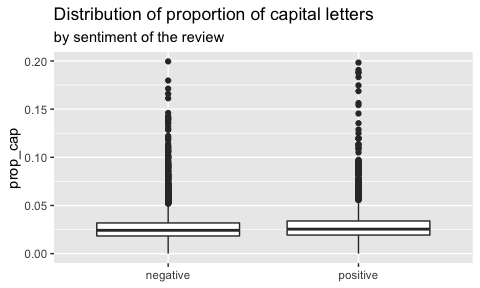
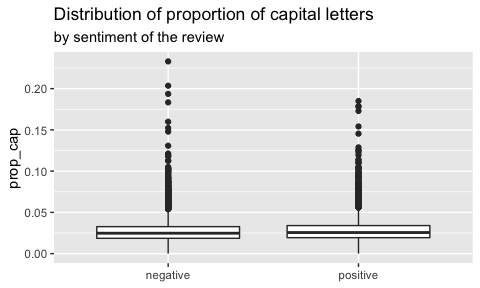
tutorial v2

diff --git a/2023-02-03-cb-xai-r-tutorial.md b/2023-02-03-cb-xai-r-tutorial.md
@@ -31,20 +31,17 @@ library(DALEXtra)
 set.seed(1313)
 ```
 
-The data is available in the GitHub repository and was downloaded from
+The data is available in the data folder in the repository and was
+downloaded from
 [Kaggle](https://www.kaggle.com/datasets/lakshmi25npathi/imdb-dataset-of-50k-movie-reviews).
 
-``` r
-raw_data <- read_csv('data/imdb_dataset.csv', show_col_types = FALSE)
-```
-
-    ## New names:
-    ## • `` -> `...1`
+The original dataset contains 50,000 rows, I took a sample of 12,000 and
+compressed it to upload it to Github so that people could easily
+replicate the analysis. Unzip the `csv` and you should be able to run
+the tutorial!
 
 ``` r
-data <- raw_data %>% 
-  rename('id'= '...1') %>% 
-  slice_sample(n = 12000) # taking a sample to make modelling quicker
+data <- read_csv('data/imdb_dataset.csv', show_col_types = FALSE)
 ```
 
 Let’s have a look at the first rows.
@@ -56,12 +53,12 @@ head(data %>% select(review, sentiment))
     ## # A tibble: 6 × 2
     ##   review                                                               sentiment
     ##   <chr>                                                                <chr>    
-    ## 1 "A refreshing black comedy starring some of Australia's finest. In … positive 
-    ## 2 "This movie was horrible.<br /><br />They didn't develop any of the… negative 
-    ## 3 "Mr Michael Jackson is an artistic phenomenon. His short movies, i.… positive 
-    ## 4 "Hey guy, this movies is everything about choices. All the times in… positive 
-    ## 5 "Giorgino can to some people look a bit long but it's one of rare r… positive 
-    ## 6 "We have high expectations with this one . . . because its Zombi 3 … positive
+    ## 1 "As a psychiatrist specialized in trauma, I find this film a beauti… positive 
+    ## 2 "The ending of this movie made absolutely NO SENSE. What a waste of… negative 
+    ## 3 "I'm not quite sure why, but this movie just doesn't play the way i… negative 
+    ## 4 "The title of this movie doesn't make a lot of sense, until you see… positive 
+    ## 5 "One of the those \"coming of age\" films that should have nostalgi… negative 
+    ## 6 "My mother took me to this movie at the drive-in when i was around … negative
 
 # Exploratory Data Analysis (EDA)
 
@@ -80,8 +77,8 @@ data %>% count(sentiment)
     ## # A tibble: 2 × 2
     ##   sentiment     n
     ##   <chr>     <int>
-    ## 1 negative   5963
-    ## 2 positive   6037
+    ## 1 negative   6017
+    ## 2 positive   5983
 
 The data is balanced with roughly the same number of positive and
 negative reviews.
@@ -137,7 +134,11 @@ boxplot_features(prop_punct, 'proportion of punctuation')
 ```
 
 ![](2023-02-03-cb-xai-r-tutorial_files/figure-gfm/unnamed-chunk-9-1.png)<!-- -->
-\# Train 2 models
+
+The box plots don’t show massive obvious differences between the
+anatomies of positive and negative reviews.
+
+# Train 2 models
 
 To illustrate XAI techniques, creating 2 models allows to see how they
 may agree but actually use quite different paths to get to the same
@@ -184,9 +185,9 @@ Let’s use the recipe package to create the steps to transform the review
 from text to a series of features. In this case, we use
 [TF-IDF](https://en.wikipedia.org/wiki/Tf%E2%80%93idf) (term frequency
 inverse document frequency): a measure of how frequent the word is in a
-particular document, relative to how frequent it is across document.
+particular document, relative to how frequent it is across documents.
 This helps lower the importance of terms that are very frequent in the
-corpus as they appear a lot across documents.
+corpus.
 
 ``` r
 prep_text_rec <-
@@ -239,6 +240,8 @@ lr <- logistic_reg(
 lr_fit <- lr %>% fit(sentiment_factor ~ ., data = train_processed)
 ```
 
+    ## Warning: glm.fit: fitted probabilities numerically 0 or 1 occurred
+
 # Generate predictions
 
 ``` r
@@ -269,16 +272,14 @@ pred_rf %>%
     ## # A tibble: 1 × 1
     ##   accuracy
     ##      <dbl>
-    ## 1    0.808
+    ## 1    0.815
 
-The random forest gets it right 82% of the time. Let’s plot the
+The random forest gets it right around 80% of the time. Let’s plot the
 predictions distribution.
 
 ``` r
 ggplot(pred_rf, aes(.pred_1)) + geom_histogram()
 ```
-
-    ## `stat_bin()` using `bins = 30`. Pick better value with `binwidth`.
 
 ![](2023-02-03-cb-xai-r-tutorial_files/figure-gfm/unnamed-chunk-15-1.png)<!-- -->
 
@@ -287,12 +288,7 @@ ggplot(pred_rf, aes(.pred_1)) + geom_histogram()
 ``` r
 pred_lr <- predict(lr_fit, test_processed, type = 'prob') %>% 
   add_predict_meta_data()
-```
 
-    ## Warning in predict.lm(object, newdata, se.fit, scale = 1, type = if (type == :
-    ## prediction from a rank-deficient fit may be misleading
-
-``` r
 pred_lr %>% 
   summarise(accuracy = mean(predict_num == sentiment_num))
 ```
@@ -300,7 +296,7 @@ pred_lr %>%
     ## # A tibble: 1 × 1
     ##   accuracy
     ##      <dbl>
-    ## 1    0.831
+    ## 1    0.843
 
 ``` r
 ggplot(pred_lr, aes(.pred_1)) + geom_histogram()
@@ -309,6 +305,7 @@ ggplot(pred_lr, aes(.pred_1)) + geom_histogram()
     ## `stat_bin()` using `bins = 30`. Pick better value with `binwidth`.
 
 ![](2023-02-03-cb-xai-r-tutorial_files/figure-gfm/unnamed-chunk-17-1.png)<!-- -->
+
 The rnadom forest and the logistic regression have a very similar
 performance (around 82%) but the distribution of prediction varies
 drastically.
@@ -366,7 +363,7 @@ explainer_rf <- DALEXtra::explain_tidymodels(
     ##   -> predict function  :  predict_function 
     ##   -> predicted values  :  No value for predict function target column. (  default  )
     ##   -> model_info        :  package parsnip , ver. 0.2.1 , task classification (  default  ) 
-    ##   -> predicted values  :  numerical, min =  0.04364841 , mean =  0.5031964 , max =  0.9540897  
+    ##   -> predicted values  :  numerical, min =  0.03796587 , mean =  0.4971412 , max =  0.941431  
     ##   -> residual function :  residual_function 
     ##   -> residuals         :  numerical, min =  0 , mean =  0 , max =  0  
     ##   A new explainer has been created!
@@ -385,11 +382,11 @@ mp_rf
 ```
 
     ## Measures for:  classification
-    ## recall     : 0.8311258 
-    ## precision  : 0.7961935 
-    ## f1         : 0.8132847 
-    ## accuracy   : 0.8079967 
-    ## auc        : 0.8939728
+    ## recall     : 0.8287385 
+    ## precision  : 0.8065041 
+    ## f1         : 0.8174701 
+    ## accuracy   : 0.8154935 
+    ## auc        : 0.9055602
     ## 
     ## Residuals:
     ##   0%  10%  20%  30%  40%  50%  60%  70%  80%  90% 100% 
@@ -424,7 +421,7 @@ explainer_lr <- DALEXtra::explain_tidymodels(model = lr_fit,
     ## Warning in predict.lm(object, newdata, se.fit, scale = 1, type = if (type == :
     ## prediction from a rank-deficient fit may be misleading
 
-    ##   -> predicted values  :  numerical, min =  1.279281e-09 , mean =  0.5063764 , max =  0.9999992  
+    ##   -> predicted values  :  numerical, min =  2.42165e-09 , mean =  0.5015149 , max =  0.9999991  
     ##   -> residual function :  residual_function 
     ##   -> residuals         :  numerical, min =  0 , mean =  0 , max =  0  
     ##   A new explainer has been created!
@@ -445,11 +442,11 @@ mp_lr
 ```
 
     ## Measures for:  classification
-    ## recall     : 0.8443709 
-    ## precision  : 0.8245756 
-    ## f1         : 0.8343558 
-    ## accuracy   : 0.8313203 
-    ## auc        : 0.9083187
+    ## recall     : 0.8579783 
+    ## precision  : 0.8329278 
+    ## f1         : 0.8452675 
+    ## accuracy   : 0.8433986 
+    ## auc        : 0.9165765
     ## 
     ## Residuals:
     ##   0%  10%  20%  30%  40%  50%  60%  70%  80%  90% 100% 
@@ -501,30 +498,18 @@ In addition, permutations are random, so the process is actually
 repeated a number of times to get the average results. I just did 6
 permutations to make it feasible here so the chunks below train 3000
 models. Realistically, global explainers reach their limit pretty fast
-on text data that warrant larger models.
+on text data that warrants larger models.
 
 ``` r
-Sys.time()
-```
-
-    ## [1] "2023-03-11 15:35:48 CET"
-
-``` r
+## TAKES ABOUT 9 MIN TO RUN ##
 fi_rf <- DALEX::model_parts(explainer_rf, B = 6)
 Sys.time()
 ```
 
-    ## [1] "2023-03-11 15:44:54 CET"
+    ## [1] "2023-03-11 20:02:32 CET"
 
 ``` r
-fi_rf_df <- data_frame(fi_rf)
-```
-
-    ## Warning: `data_frame()` was deprecated in tibble 1.1.0.
-    ## ℹ Please use `tibble()` instead.
-
-``` r
-top_features_rf <- fi_rf_df %>% 
+top_features_rf <- tibble(fi_rf) %>% 
   group_by(variable, label) %>% 
   summarise(av_importance = mean(dropout_loss)) %>% 
   ungroup() %>% 
@@ -536,31 +521,18 @@ top_features_rf <- fi_rf_df %>%
     ## `.groups` argument.
 
 ``` r
-Sys.time()
-```
-
-    ## [1] "2023-03-11 15:44:54 CET"
-
-``` r
+## TAKES ABOUT 3 MIN TO RUN ##
 fi_lr <- DALEX::model_parts(explainer_lr, B = 6)
-Sys.time()
 ```
 
-    ## [1] "2023-03-11 15:46:58 CET"
-
 ``` r
-fi_lr_df <- data_frame(fi_lr)
-
-top_features_lr <- fi_lr_df %>% 
+top_features_lr <- tibble(fi_lr) %>% 
   group_by(variable, label) %>% 
   summarise(av_importance = mean(dropout_loss)) %>% 
   ungroup() %>% 
   top_n(20, wt = av_importance) %>% 
   mutate(word = str_remove(variable, 'tfidf_clean_review_'))
 ```
-
-    ## `summarise()` has grouped output by 'variable'. You can override using the
-    ## `.groups` argument.
 
 ``` r
 top_features_lr %>% 
@@ -579,11 +551,8 @@ top_features_lr %>%
 ![](2023-02-03-cb-xai-r-tutorial_files/figure-gfm/unnamed-chunk-25-1.png)<!-- -->
 
 While they have very similar performance, the random forest and the
-logistic regression don’t follow the same path: ‘poor’, ‘love’ and
-‘stupid’ make it to the top 20 most important words for the random
-forest but don’t make the top 20 for the regression. Conversely,
-‘hilarious’ and ‘perfect’ matter to the regression but less to the
-forest.
+logistic regression don’t follow the same path: some words make it to
+both lists of top 20 features but the two lists don’t overlap.
 
 ## Accumulated Local Effect (ALE)
 
@@ -600,15 +569,7 @@ ale_rf <- model_profile(explainer_rf,
 ale_lr <- model_profile(explainer_lr,
                        variables = "tfidf_clean_review_poor",
                        type = "accumulated")
-```
 
-    ## Warning in predict.lm(object, newdata, se.fit, scale = 1, type = if (type == :
-    ## prediction from a rank-deficient fit may be misleading
-
-    ## Warning in predict.lm(object, newdata, se.fit, scale = 1, type = if (type == :
-    ## prediction from a rank-deficient fit may be misleading
-
-``` r
 plot(ale_rf, ale_lr)
 ```
 
@@ -642,7 +603,7 @@ Let’s take the first review of the test set.
 test_data[1,]$review
 ```
 
-    ## [1] "A refreshing black comedy starring some of Australia's finest. In the same way that Lock Stock and 2 Smoking Barrels captured the funny side of London gangsters, Two Hands rips through the Sydney underworld. It wouldn't be so funny if it wasn't so close to the bone.<br /><br />An Australian classic. If Australia could pull more rabbits like this out its hat it might actually have a film industry worth keeping an eye on."
+    ## [1] "The ending of this movie made absolutely NO SENSE. What a waste of 2 perfectly good hours. If you can explain it to me...PLEASE DO. I don't usually consider myself unable to \"get\" a movie, but this was a classic example for me, so either I'm slower than I think, or this was a REALLY bad movie."
 
 ## Explain the random forest prediction of a review
 
